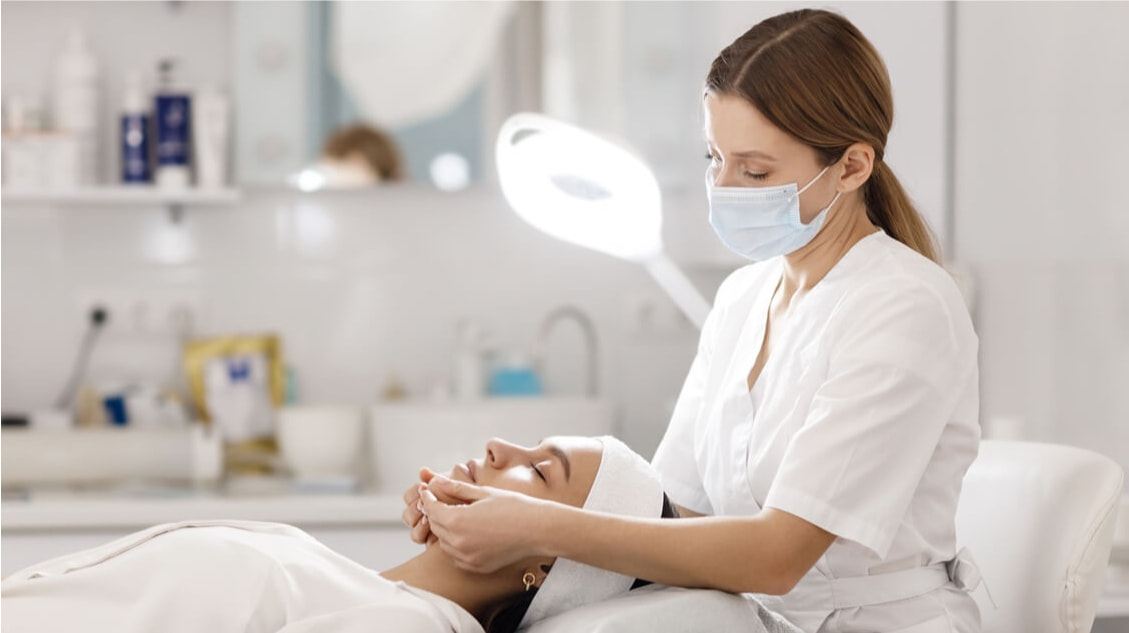
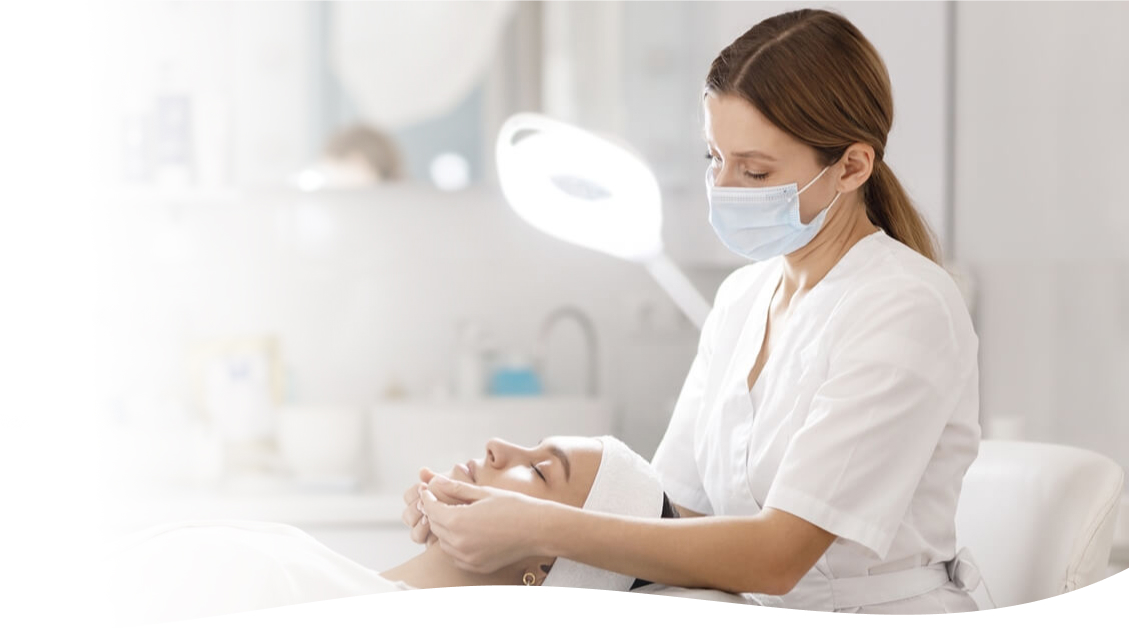
додавання наступної секції

diff --git a/BeautyZone/css/style.css b/BeautyZone/css/style.css
@@ -19,7 +19,7 @@ body {
   font-size: 18px;
   font-style: normal;
   font-weight: 400;
-  line-height: 1, 72;
+  line-height: 1.72;
   background-color: var(--color-bgr-light);
   color: var(--color-brand-black);
   max-width: 1440px;
@@ -101,16 +101,13 @@ ul {
 /* Перша секція */
 
 .section__headline {
-  background-image: linear-gradient(89deg, #FFF 30.62%,
-      rgba(255, 255, 255, 0.85) 41.31%,
-      rgba(255, 255, 255, 0.19) 58.65%,
-      rgba(255, 255, 255, 0.00) 72.78%),
-    url(/BeautyZone/images/header2x.jpg);
-  height: 658px;
+  background-image: url(/BeautyZone/images/header.jpg);
+  height: 780px;
   background-repeat: no-repeat;
   background-size: cover;
+  background-position: center;
   padding-top: 126.5px;
-  margin-left: 14vw;
+  padding-left: 12vw;
 }
 
 .section__headline-title {
@@ -240,8 +237,13 @@ span {
 }
 
 /* Секція advantages */
+.section__advantages {
+  background-image: url(/BeautyZone/images/background.png);
+  padding-bottom: 96px;
+}
+
 .section__advantages__title {
-  margin-top: 176px;
+  padding-top: 176px;
   margin-bottom: 48px;
   text-align: center;
   font-family: Play;
@@ -253,29 +255,50 @@ span {
 .section__advantages__title>span {
   text-transform: none;
 }
-.section__advantages-list{
+
+.section__advantages-list {
   display: flex;
+  justify-content: center;
   gap: 56px;
+  padding: 0;
 }
-.section__advantages-list-item{
-display: flex;
-flex-direction: column;
-align-items: center;
-text-align: center;
-width: 316px;
-height: 181px;
-border-radius: 32px;
-background: var(--color-bgr-light);
-padding: 24px 32px;
+
+.section__advantages-list-item {
+  display: flex;
+  flex-direction: column;
+  align-items: center;
+  text-align: center;
+  width: 316px;
+  height: 181px;
+  border-radius: 32px;
+  background: var(--color-bgr-light);
+  box-shadow: 0px 4px 4px 0px rgba(168, 198, 245, 0.38);
+  padding: 24px 32px;
 }
-.advantages-icon{
+
+.advantages-icon {
   width: 48px;
   height: 48px;
- margin-bottom: 8px;
+  margin-bottom: 8px;
 }
-.section__advantages-list-item>p{
+
+.section__advantages-list-item>p {
   margin: 0;
+  line-height: 1.33;
+  color: #000;
+  font-size: 18px;
 }
+
+/* Секція Процедури */
+.section__procedures-title {
+  text-align: center;
+}
+
+.section__procedures-title>span {
+  text-transform: none;
+}
+
+
 
 
 @media screen and (max-width: 767px) {
@@ -372,14 +395,10 @@ padding: 24px 32px;
   }
 
   .section__headline {
-    background-image: linear-gradient(89deg, #FFF 30.62%,
-        rgba(255, 255, 255, 0.85) 41.31%,
-        rgba(255, 255, 255, 0.19) 58.65%,
-        rgba(255, 255, 255, 0.00) 72.78%),
-      url(/BeautyZone/images/header-mob.jpg);
+    background-image: url(/BeautyZone/images/header-mob.jpg);
     background-repeat: no-repeat;
     background-size: cover;
-    height: 346px;
+    height: 446px;
     align-items: center;
     text-align: center;
     padding: 0;
@@ -459,6 +478,7 @@ padding: 24px 32px;
     text-align: justify;
     margin: 0;
     margin-bottom: 16px;
+    line-height: normal;
   }
 
   .star-icon {
@@ -469,17 +489,60 @@ padding: 24px 32px;
     transform: rotate(9deg);
     right: 22px;
     margin: 0;
-    margin-top: -16px;
+    margin-top: 6px;
   }
 
 
   .section__about-us-container {
     display: none;
   }
-  /* Секція advantages */
-  .section__advantages__title>span{
 
+  /* Секція advantages */
+  .section__advantages {
+    background-image: url(/BeautyZone/images/background-mob.png);
+    background-repeat: no-repeat;
+    background-size: cover;
   }
+
+  .section__advantages__title {
+    margin-top: 104px;
+    margin-bottom: 24px;
+    font-family: Roboto;
+    font-size: 32px;
+    font-weight: 500;
+  }
+
+  .section__advantages__title>span {
+    font-size: 32px;
+    font-weight: 500;
+  }
+
+  .section__advantages-list {
+    display: flex;
+    flex-direction: column;
+    justify-content: flex-end;
+    align-items: center;
+    padding: 0 22px;
+    gap: 16px;
+    border-radius: 32px;
+    margin-bottom: 40px;
+  }
+
+  .section__advantages-list-item {
+    box-shadow: 0px 4px 4px 0px rgba(168, 198, 245, 0.38);
+  }
+
+  .advantages-icon {
+    width: 48px;
+    height: 48px;
+    /* height: max-content; */
+  }
+
+  .icon {
+    width: 52px;
+    height: 52px;
+  }
+
 }
 
 
@@ -531,6 +594,7 @@ padding: 24px 32px;
     height: 100vh;
     transform: translateX(-100%);
     background-color: var(--color-bgr-light);
+    z-index: 1;
   }
 
   .mobile__menu {
@@ -580,7 +644,8 @@ padding: 24px 32px;
 
   .section__headline {
     padding: 0;
-    padding-left: 5vw;
+    padding-left: 12vw;
+    background-position: center;
   }
 
   .section__headline-title {
@@ -627,6 +692,7 @@ padding: 24px 32px;
   /* Секція переваг */
   .section__about-us {
     gap: 8vw;
+    padding: 0 40px;
   }
 
   h2 {
@@ -668,5 +734,29 @@ padding: 24px 32px;
     height: 32px;
     transform: rotate(353deg);
     margin-left: 20px;
+  }
+
+  /* Секція переваг */
+  .section__advantages {
+    padding: 0 40px;
+  }
+
+  .section__advantages__title {
+    font-family: Play;
+    font-size: 42px;
+    font-weight: 700;
+    line-height: 1;
+    margin: 0;
+    margin-top: 40px;
+  }
+
+  .section__advantages-list {
+    gap: 20px;
+    padding: 0;
+  }
+
+  .section__advantages-list-item {
+    padding: 12px 16px;
+    box-shadow: 0px 4px 4px 0px rgba(168, 198, 245, 0.38);
   }
 }

diff --git a/BeautyZone/index.html b/BeautyZone/index.html
@@ -138,31 +138,35 @@
       <h2 class="section__advantages__title">Чому люди<br><span>обирають нас</span></h2>
       <ul class="section__advantages-list">
         <li class="section__advantages-list-item">
-          <svg class="advantages-icon">
+          <div> <svg class="advantages-icon">
             <use href="./images/icons.svg#icon-game-icons_materials-science"></use>
-          </svg>
+          </svg></div>
+         
           <p>Всі наші косметологи мають вищу медичну освіту
             та стаж роботи від 5 років
           </p>
         </li>
         <li class="section__advantages-list-item">
-          <svg class="advantages-icon">
-            <use href="./images/icons.svg#icon-medicinecosmeticsbottletreatment_109776-1"></use>
-          </svg>
+          <div>
+            <svg class="advantages-icon icon">
+              <use href="./images/icons.svg#icon-medicinecosmeticsbottletreatment_109776-1"></use>
+            </svg>
+          </div>
+         
           <p>Використовуємо тільки професійне обладнання та косметику, перевірену часом</p>
         </li>
         <li class="section__advantages-list-item">
-          <svg class="advantages-icon">
+          <div><svg class="advantages-icon">
             <use href="./images/icons.svg#icon-ph_crown-light"></use>
-          </svg>
+          </svg></div>
           <p>Наша мета - підкреслити переваги та приховати недоліки, а не переробити</p>
         </li>
       </ul>
     </section>
 
 
-    <!-- <secttion class="secttion__procedures" id="secttion__procedures">
-      <h2>Наші <span>процедури</span></h2>
+    <section class="section__procedures" id="section__procedures">
+      <h2 class="section__procedures-title">Наші <span>процедури</span></h2>
       <button class="carousel-button prev" type="button">
         <svg class="arrow" width="16" height="16">
           <use href="./images/icons.svg#icon-Arrow"></use>
@@ -199,10 +203,10 @@
           <use href="./images/icons.svg#icon-Arrow"></use>
         </svg>
       </button>
-    </secttion>
+    </section>
 
 
-    <secttion class="secttion__сontacts" id="secttion__сontacts">
+    <!-- <section class="secttion__сontacts" id="secttion__сontacts">
       <h2>Як нас <span>знайти</span></h2>
       <div>
         <iframe
@@ -235,7 +239,7 @@
             <p>Натискаючи на кнопку я погоджуюсь з політикою конфіденційності</p>
           </div>
 
-    </secttion> -->
+    </section> -->
   </main>
 
   <!-- <footer>

diff --git a/Home_work/css/style.css b/Home_work/css/style.css
@@ -27,6 +27,7 @@ body {
   margin: 0;
   max-width: 1440px;
   background-color: var(--color-primary-light);
+  color: var(--color-primary-dark);
   
 }
 
@@ -41,10 +42,10 @@ a {
   font-weight: 600;
 }
 
-a:hover,
-:active {
+a:hover {
   color: var(--color-brand-light);
   /* font-weight: 600; */
+ 
 }
 
 .logo {
